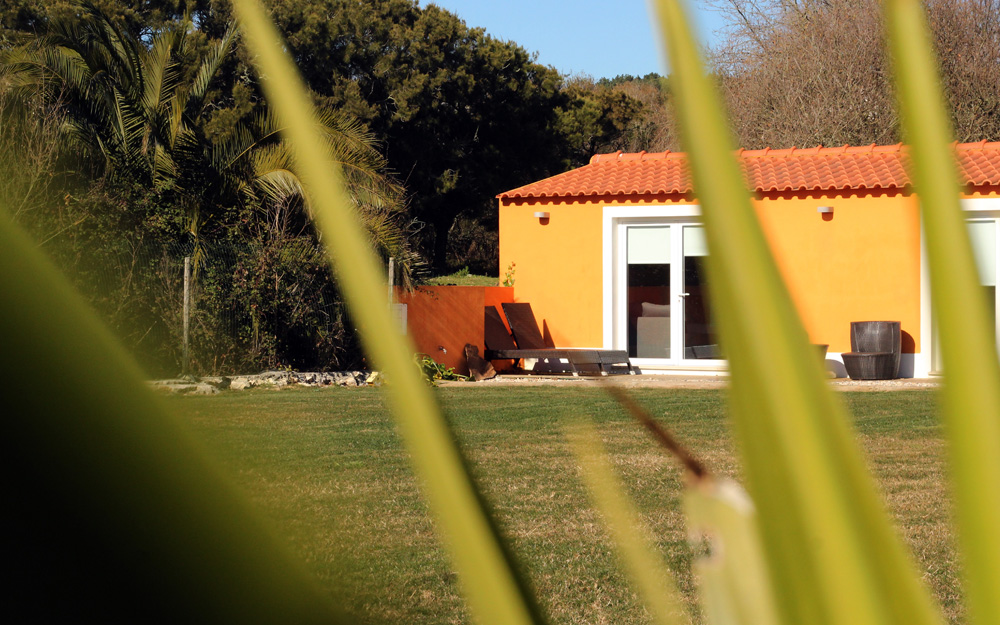
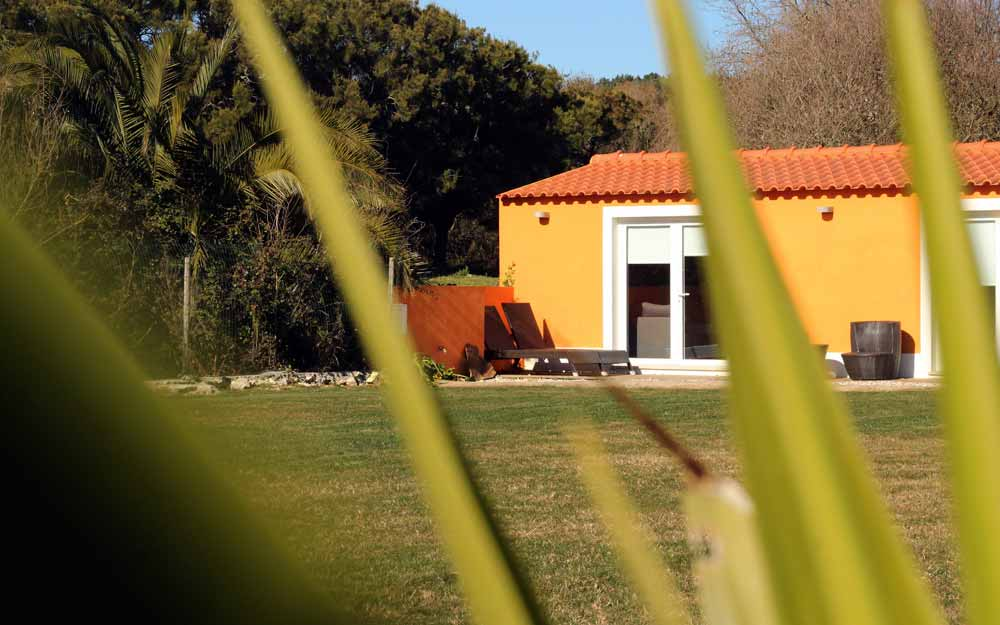
reduzir tamanho das imagens 2

diff --git a/index.php b/index.php
@@ -7,8 +7,9 @@
     <div class="welcome-message">
         <div class="wrap-info">
             <div class="information">
-                <h1  class="animated fadeInDown">Foz do Arelho</h1>
-                <p class="animated fadeInUp">Turismo Rural</p>
+                <h1  class="animated fadeInDown">Azenha GuestHouse</h1>
+                <h2 class="animated fadeInUp">Turismo Rural - Foz do Arelho</h2>
+                <p class="animated fadeInUp">Quartos - Rooms - Chambres - Zimmer</p>
             </div>
             <a href="#information" class="arrow-nav scroll wowload fadeInDownBig"><i class="fa fa-angle-down"></i></a>
         </div>
